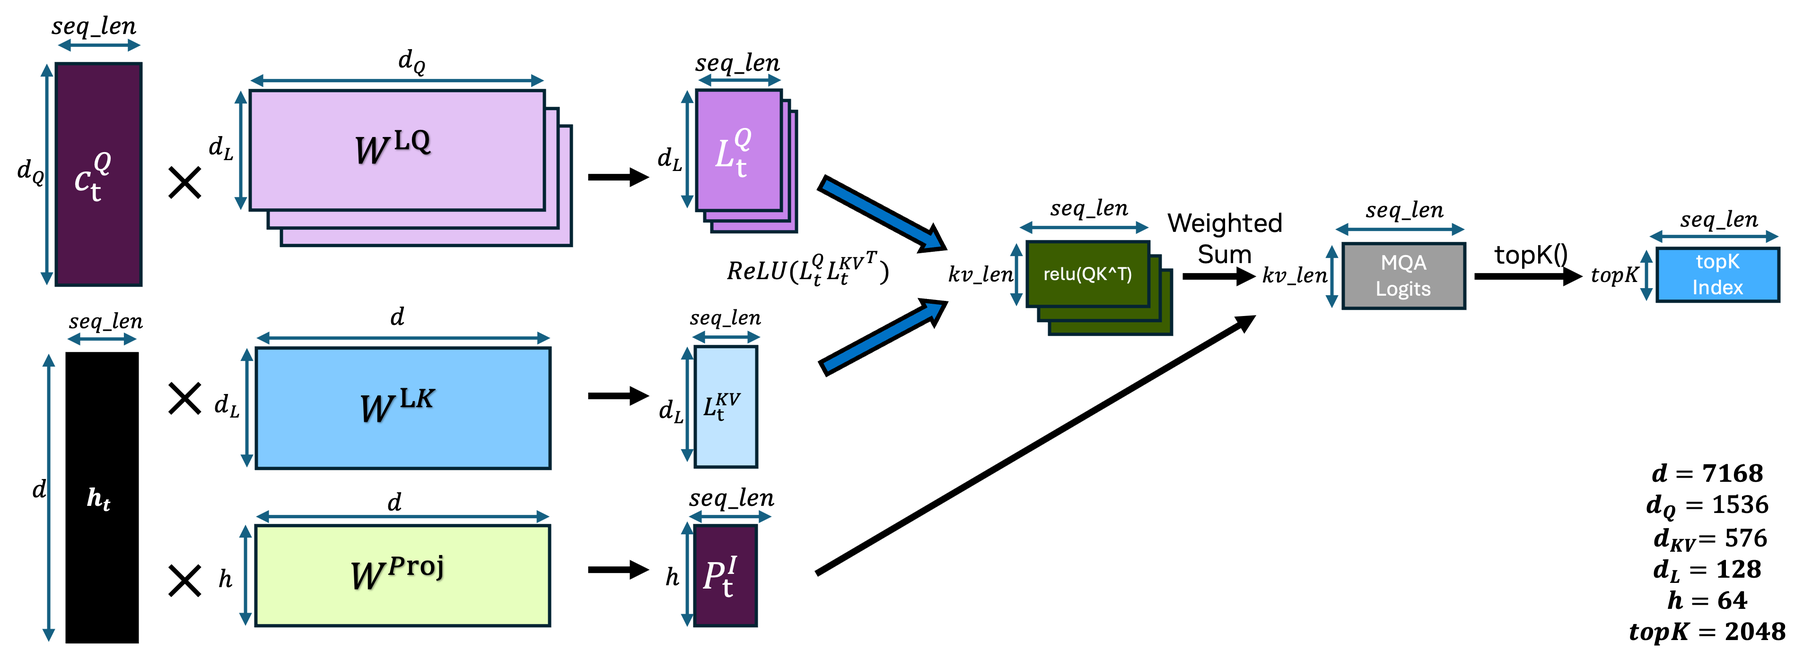
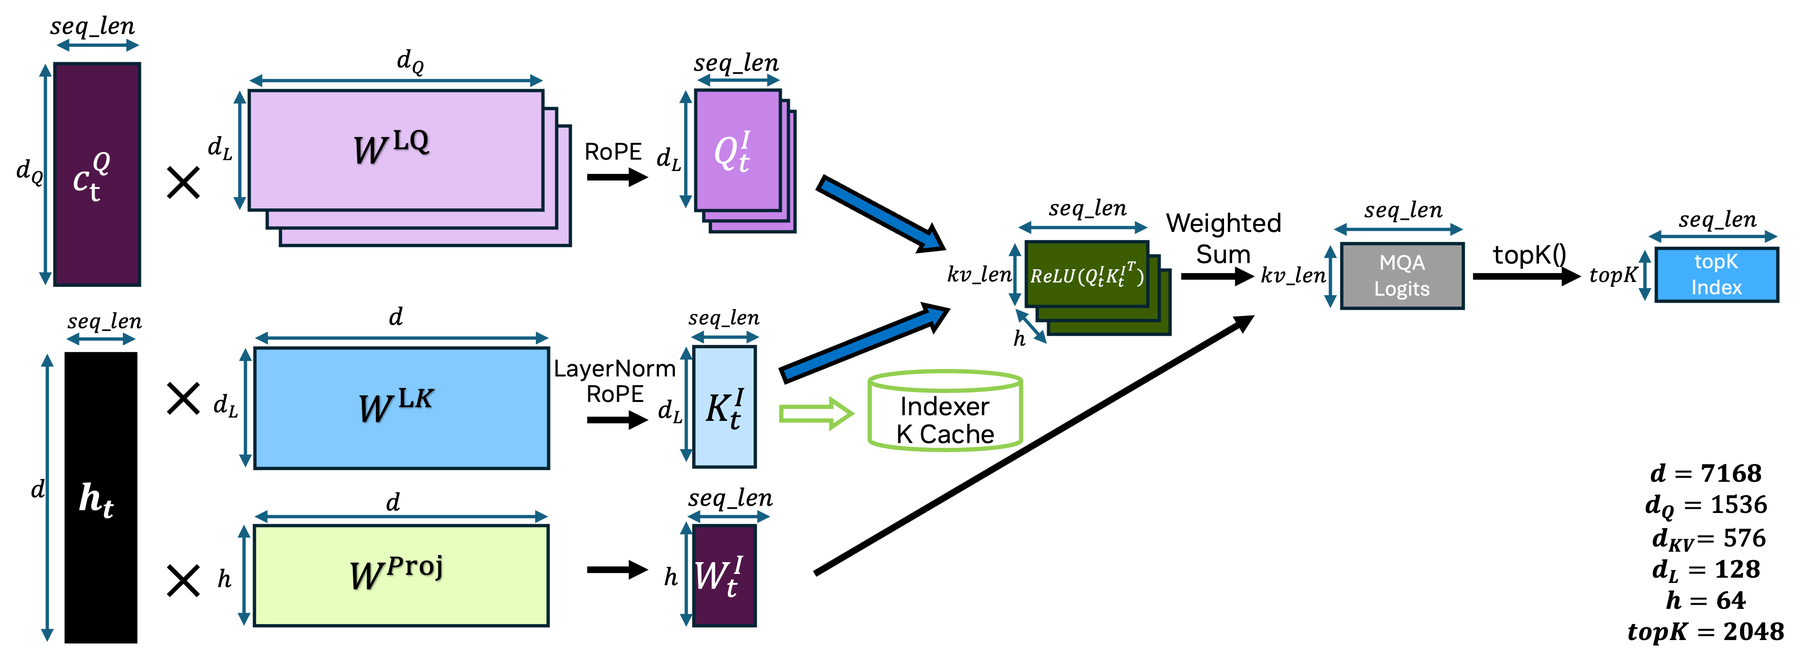
address comments.

diff --git a/docs/source/blogs/tech_blog/blog15_Optimizing_DeepSeek_V32_on_NVIDIA_Blackwell_GPUs.md b/docs/source/blogs/tech_blog/blog15_Optimizing_DeepSeek_V32_on_NVIDIA_Blackwell_GPUs.md
@@ -13,10 +13,11 @@ By NVIDIA TensorRT LLM team
         - [Disaggregated Serving](#disaggregated-serving)
         - [Chunked Prefill and KV Cache Reuse](#chunked-prefill-and-kv-cache-reuse)
         - [Wide Expert Parallelism (Wide-EP)](#wide-expert-parallelism-wide-ep)
+		- [Chat Template and Tool Parser](#chat-template-and-tool-parser)
     - [Key Optimizations](#key-optimizations)
         - [Kernel Optimizations](#kernel-optimizations)
             - [Sparse MLA Kernel](#sparse-mla-kernel)
-            - [Indexer Top-k Kernel](#indexer-top-k-kernel)
+            - [Indexer Top-K Kernel](#indexer-top-k-kernel)
             - [DeepGEMM MQA Kernel](#deepgemm-mqa-kernel)
             - [Kernel Fusion](#kernel-fusion)
         - [System Optimizations](#system-optimizations)
@@ -32,7 +33,7 @@ By NVIDIA TensorRT LLM team
     - [Acknowledgement](#acknowledgement)
 
 ## Introduction
-The open-sourced [DeepSeek-V3.2](https://api-docs.deepseek.com/news/news251201) series models proposed a new architecture with a fine-grained sparse attention mechanism, called DeepSeek Sparse Attention (DSA). It can help the DeepSeek-V3.2 model achieve better efficiency, especially in long sequence scenarios. Although DSA uses a lightweight indexer for prediction, realizing actual speedup from attention sparsity is still challenging. This blog introduces how TensorRT LLM supports key LLM inference features and optimizes DeepSeek-v3.2 performance on NVIDIA Blackwell GPUs.
+The open-sourced [DeepSeek-V3.2](https://api-docs.deepseek.com/news/news251201) series models proposed a new architecture with a fine-grained sparse attention mechanism, called DeepSeek Sparse Attention (DSA). It can help the DeepSeek-V3.2 model achieve better efficiency, especially in long sequence scenarios. Although DSA uses a lightweight indexer for prediction, realizing actual speedup from attention sparsity is still challenging. This blog introduces how TensorRT LLM supports key LLM inference features for DeepSeek-v3.2 and optimizes its performance on NVIDIA Blackwell GPUs.
 
 ## DeepSeek Sparse Attention (DSA)
 <div align="center">
@@ -40,9 +41,11 @@ The open-sourced [DeepSeek-V3.2](https://api-docs.deepseek.com/news/news251201) 
   <img src="https://github.com/lfr-0531/TensorRT-LLM/raw/user/fanrongl/ds32_tech_blog_preview/docs/source/blogs/media/tech_blog15_dsa_architecture.png" alt="tech_blog15_dsa_architecture" width="700" height="auto">
 </figure>
 </div>
-<p align="center"><sub><em>Figure 1. The architecture of DSA. The green part illustrates how DSA selects the top-k key-value entries according to the indexer.</em></sub></p>
+<p align="center"><sub><em>Figure 1. The architecture of DSA. The green part illustrates how DSA selects the Top-K key-value entries according to the indexer.</em></sub></p>
 
-DSA serves as the core component of the DeepSeek-v3.2 model, and it is the only architectural modification compared to its predecessors (DeepSeek-V3/R1/V3.1). It is a fine-grained sparse attention mechanism that only selects the important key-value entries for attention computation. Figure 1 illustrates the overall architecture: a lightning indexer first determines the importance of all key-value entries for each query token. Subsequently, the Top-k Selector retains only the top-K entries (typically K=2048) based on the index scores. Finally, attention is computed exclusively between the query token and these selected entries.
+DSA serves as a core component of the DeepSeek-v3.2 model, and it is the only architectural modification compared to its predecessors (DeepSeek-V3/R1/V3.1). It is a fine-grained sparse attention mechanism that only selects the important key-value entries for attention computation.
+
+Figure 1 illustrates the overall architecture: a lightning indexer first determines the importance of all key-value entries for each query token. Subsequently, the Top-K Selector retains only the top-$k$ entries (typically $k=2048$) based on the index scores. Finally, attention is computed exclusively between the query token and these selected entries.
 
 <div align="center">
 <figure>
@@ -51,38 +54,41 @@ DSA serves as the core component of the DeepSeek-v3.2 model, and it is the only 
 </div>
 <p align="center"><sub><em>Figure 2. The architecture of the DSA indexer and Top-K logics.</em></sub></p>
 
-Figure 2 illustrates the DSA indexer and the Top-k selection mechanism. First, two low-rank linear layers project $c_t^Q$ and the input $h_t$ into lower-dimensional tensors, $L_t^Q$ and $L_t^{KV}$. These tensors are then used to compute the index scores (labeled as MQA Logits in Figure 2):
-$$I_{t} = \sum_{j=1}^{h}P_j^I \cdot \text{ReLU}(L_{t, j}^Q (L_t^{KV})^T)$$
-Finally, a Top-k operation is applied to the index scores to identify the most relevant indices, which are subsequently used for the sparse MLA computation.
+Figure 2 illustrates the DSA indexer and the Top-K selection mechanism. Firstly, two low-rank linear layers project $c_t^Q$ and the input $h_t$ into lower-dimensional tensors. Following operations of LayerNorm to the K tensor and RoPE to both Q and K, we obtain the tensors $Q_t^I$ and $K_t^I$. Simultaneously, a separate weight projection layer processes $h_t$ to generate the weights $W_t^I$. These tensors are then used to compute the index scores (labeled as MQA Logits in Figure 2):
+
+$$I_{t} = \sum_{j=1}^{h}W_j^I \cdot \text{ReLU}(Q_{t, j}^I (K_t^I)^T)$$
+
+Finally, a Top-K operation is applied to the index scores to identify the most relevant indices, which are subsequently used for the sparse MLA computation. To reduce computational overhead, the K tensor $K_t^I$ is stored in the indexer K cache, allowing for reuse in subsequent iterations.
  
-Regarding implementation, DSA diverges from the DeepSeek-V3/R1/V3.1 models, which alternate between MHA (prefill) and MQA (decoding) as discussed in [Tech Blog 3](https://github.com/NVIDIA/TensorRT-LLM/blob/main/docs/source/blogs/tech_blog/blog3_Optimizing_DeepSeek_R1_Throughput_on_NVIDIA_Blackwell_GPUs.md). Instead, DSA adopts a unified approach, operating exclusively in MQA mode for both prefill and decoding phases to maximize kernel efficiency. We are continuing to explore further optimizations, including potential support for MHA mode in future iterations.
+Regarding implementation, DSA diverges from the MLA used in DeepSeek-V3/R1/V3.1 models, which alternates between MHA mode (prefill) and MQA mode (decoding) as discussed in [Tech Blog 3](https://github.com/NVIDIA/TensorRT-LLM/blob/main/docs/source/blogs/tech_blog/blog3_Optimizing_DeepSeek_R1_Throughput_on_NVIDIA_Blackwell_GPUs.md). Instead, our current DSA implementation operates only  in MQA mode for both prefill and decoding phases to maximize kernel efficiency. We are continuing to explore further optimizations, including potential support for MHA mode in future iterations.
 
 The DSA implementation is built upon the TensorRT LLM sparse attention framework, which is designed to provide flexible and extensible support for various sparse attention methods. For more information, please refer to the [sparse attention documentation](https://github.com/NVIDIA/TensorRT-LLM/blob/main/docs/source/features/sparse-attention.md), and a technical blog providing further details will be released soon.
 
 ## Precision Strategy
-Because the DSA is the only architectural modification of DeepSeek-V3.2-Exp from the DeepSeek-R1 model, the mixed precision recipe for other modules is the same as what is used for the DeepSeek-R1. This is the precision strategy used in the DSA module:
+Because the DSA is the only architectural modification of DeepSeek-V3.2 from the DeepSeek-R1 model, the mixed precision recipe for other modules is the same as what is used for the DeepSeek-R1. This is the NVFP4 precision strategy used in the DSA module:
 - Indexer
     - Low-rank linear layers: BF16
     - Weight projection layer: FP32, for model accuracy
     - MQA:
         - Indexer K cache: Blockwise FP8
         - Math: Blockwise FP8
-    - TopK: FP32
+    - Top-K: FP32
 - QKV projection layer: BF16
 - Output projection layer: NVFP4
 - Sparse MLA
     - KV cache: Per-tensor FP8
     - Math: Per-tensor FP8
 
-The MoE layers use NVFP4, which is the same as the DeepSeek-R1. Please refer to [Tech Blog 1](https://github.com/NVIDIA/TensorRT-LLM/blob/main/docs/source/blogs/tech_blog/blog1_Pushing_Latency_Boundaries_Optimizing_DeepSeek-R1_Performance_on_NVIDIA_B200_GPUs.md) and [Tech Blog 3](https://github.com/NVIDIA/TensorRT-LLM/blob/main/docs/source/blogs/tech_blog/blog3_Optimizing_DeepSeek_R1_Throughput_on_NVIDIA_Blackwell_GPUs.md) for the MoE precision strategy.
+The MoE layers use NVFP4, which is the same as the DeepSeek-R1. Please refer to [Tech Blog 1](https://github.com/NVIDIA/TensorRT-LLM/blob/main/docs/source/blogs/tech_blog/blog1_Pushing_Latency_Boundaries_Optimizing_DeepSeek-R1_Performance_on_NVIDIA_B200_GPUs.md) and [Tech Blog 3](https://github.com/NVIDIA/TensorRT-LLM/blob/main/docs/source/blogs/tech_blog/blog3_Optimizing_DeepSeek_R1_Throughput_on_NVIDIA_Blackwell_GPUs.md) for the MoE precision strategy. In addition to the NVFP4 version of DeepSeek-V3.2, TensorRT-LLM also supports the original FP8 model, as well as both BF16 and per-tensor FP8 KV caches.
 
 We evaluated the accuracy of this NVFP4 checkpoint on the same datasets:
 |                    | GSM8k | MMLU  | GPQA-Diamond |
 | :----------------- | :---- | :---- | :----------- |
-| TensorRT LLM FP8   | 95.91 | 87.84 | 84.34        |
-| TensorRT LLM NVFP4 | 95.26 | 87.54 | 84.85        |
+| [deepseek-ai/DeepSeek-V3.2](https://huggingface.co/deepseek-ai/DeepSeek-V3.2)   | 95.91 | 87.84 | 84.34        |
+| nvidia/DeepSeek-V3.2-NVFP4<sup>*</sup> | 95.26 | 87.54 | 84.85        |
 
-** Note there are some run-to-run variance for these evaluations. We think the NVFP4 checkpoint has comparable accuracy with FP8 on these datasets.
+<sub><em>\* Currently, there is no NVFP4 DeepSeek-V3.2 model available on Hugging Face. Please refer to the [How to reproduce](#how-to-reproduce) section to learn how to quantize the model to NVFP4.  
+** Note there are some run-to-run variance for these evaluations. Our experiments indicate that the NVFP4 recipe delivers accuracy on par with FP8 on these datasets.</em></sub>
 
 ## Parallel Strategy
 To achieve optimal throughput, DeepSeek-V3.2 adopts the same parallel strategy as DeepSeek-R1. Please refer to [Tech Blog 3](https://github.com/NVIDIA/TensorRT-LLM/blob/main/docs/source/blogs/tech_blog/blog3_Optimizing_DeepSeek_R1_Throughput_on_NVIDIA_Blackwell_GPUs.md) for a detailed explanation of the performance benefits:
@@ -99,24 +105,29 @@ The difference lies in the DSA indexer. When utilizing Tensor Parallelism (TP) f
 
 ## Key Features
 In TensorRT LLM, there are many advanced features that are crucial for maximizing LLM inference performance, such as CUDA Graph, Overlap Scheduler, Speculative Decoding, etc. Given the architectural innovations in DeepSeek-V3.2, ensuring its compatibility with these features is important.
+
 As illustrated in [Tech Blog 3](https://github.com/NVIDIA/TensorRT-LLM/blob/main/docs/source/blogs/tech_blog/blog3_Optimizing_DeepSeek_R1_Throughput_on_NVIDIA_Blackwell_GPUs.md), both CUDA Graph and the Overlap Scheduler offer significant throughput improvements. For CUDA Graph support, which is typically enabled during decoding-only iterations where all requests are in the decoding phase, we must ensure that kernels in the DSA module support graph capture and that input/output tensor shapes remain consistent for a given batch size. Regarding the Overlap Scheduler, it is critical to eliminate any CPU-GPU synchronization within the DSA forward, as this would disrupt the execution pipeline. Other key features are discussed in the following subsections.
 
 ### MTP
 Multi-Token Prediction (MTP) is a speculative decoding method used in DeepSeek series models. It verifies and accepts multiple draft tokens in a single iteration, significantly improving inference performance in both low-latency and high-throughput scenarios. The DeepSeek-V3.2 also supports MTP. For latency-critical scenarios, as detailed in [Tech Blog 1](https://github.com/NVIDIA/TensorRT-LLM/blob/main/docs/source/blogs/tech_blog/blog1_Pushing_Latency_Boundaries_Optimizing_DeepSeek-R1_Performance_on_NVIDIA_B200_GPUs.md), MTP-3 is recommended to maximize GPU utilization and achieve optimal performance. For other scenarios, MTP-1 typically offers performance gains as well.
 
-However, the decoding indexer MQA kernel supports sequence lengths of only 1 or 2, limiting native support to MTP-off or MTP-1. To enable MTP > 1, we offer two solutions. The long-term solution involves updating the MQA kernel to support larger sequence lengths, which will be introduced in the MQA kernel optimization section. The immediate workaround (in [PR-9045](https://github.com/NVIDIA/TensorRT-LLM/pull/9045)) uses the existing kernel by flattening the sequence length dimension into the batch dimension, treating the input as a tensor with a sequence length of 1. While this approach ignores the causal mask during the indexer MQA forward, causing discrepancies in the diagonal regions compared to ground truth, the subsequent Top-K kernel handles causal masking correctly. Therefore, the final top-k indices remain unaffected, allowing this workaround to support MTP-N for any N.
+However, the decoding indexer MQA kernel supports sequence lengths of only 1 or 2, limiting native support to MTP-off or MTP-1. To enable MTP > 1, we offer two solutions. The long-term solution involves updating the MQA kernel to support larger sequence lengths, which will be introduced in the MQA kernel optimization section. The immediate workaround (in [PR-9045](https://github.com/NVIDIA/TensorRT-LLM/pull/9045)) uses the existing kernel by flattening the sequence length dimension into the batch dimension, treating the input as a tensor with a sequence length of 1. While this approach ignores the causal mask during the indexer MQA forward, causing discrepancies in the diagonal regions compared to ground truth, the subsequent Top-K kernel handles causal masking correctly. Therefore, the final Top-K indices remain unaffected, allowing this workaround to support MTP-N for any N.
 
 ### Disaggregated Serving
 Disaggregated serving decouples the prefill and decoding phases, allowing them to run on separate GPU pools with optimized parallel strategies. This feature is crucial for deploying LLMs on high-performance systems like GB200 NVIDIA GPU HWs. However, it requires transferring KV cache blocks from the prefill to the decoding GPUs. DeepSeek-V3.2 introduces an additional 'indexer K cache,' which presents unique challenges for cache management and transmission in a disaggregated setup.
 
-To address this, [PR-8699](https://github.com/NVIDIA/TensorRT-LLM/pull/8699) integrated indexer K cache support into the existing kvCacheManager, enabling it to inherit existing cache features. Subsequently, [PR-8735](https://github.com/NVIDIA/TensorRT-LLM/pull/8735) extended disaggregated serving capabilities to DeepSeek-V3.2, allowing TensorRT-LLM to handle the transmission of the indexer K cache. Currently, the implementation specifically targets the indexer K cache, but we plan to generalize this support in future updates.
+To address this, [PR-8699](https://github.com/NVIDIA/TensorRT-LLM/pull/8699) integrated indexer K cache support into the existing kvCacheManager, enabling it to inherit existing cache features. Subsequently, [PR-8735](https://github.com/NVIDIA/TensorRT-LLM/pull/8735) extended disaggregated serving capabilities to DeepSeek-V3.2, allowing TensorRT LLM to handle the transmission of the indexer K cache. Currently, the implementation specifically targets the indexer K cache, but we plan to generalize this support in future updates.
 
 ### Chunked Prefill and KV Cache Reuse
 Two additional critical features are chunked prefill and KV cache reuse. Chunked prefill removes input length constraints for long prompts and enables prefill chunks to be batched alongside more decoding requests, boosting throughput. KV cache reuse allows requests sharing common prefixes (e.g., system prompts or multi-turn conversations) to share cached blocks, drastically reducing time-to-first-token (TTFT).
+
 On the implementation side, kvCacheManager already supports the newly introduced indexer K cache, extending compatibility to both chunked prefill and KV cache reuse. Then [PR-9376](https://github.com/NVIDIA/TensorRT-LLM/pull/9376) enabled DSA to perform prefill computation with past tokens saved in the cache, thereby unlocking chunked prefill support. Building on this, [PR-9383](https://github.com/NVIDIA/TensorRT-LLM/pull/9383) implemented KV cache reuse for DeepSeek-V3.2 by reusing the chunked prefill changes.
 
 ### Wide Expert Parallelism (Wide-EP) 
 The Wide-EP is an important feature for boosting inference throughput in large-scale Mixture-of-Experts (MoE) models. For the DeepSeek-V3.2 model, after supporting the disaggregated serving, [PR-9245](https://github.com/NVIDIA/TensorRT-LLM/pull/9245) simply registered the model with the Expert Parallelism Load Balancer (EPLB). This integration allows Wide-EP and EPLB to be enabled, significantly enhancing performance.
+
+### Chat Template and Tool Parser
+DeepSeek-V3.2 introduces a new chat template compared to prior versions. This update incorporates support for tool calling and the 'thinking with tools' capability. These enhancements, along with the necessary tool parser, were implemented in [PR-9814](https://github.com/NVIDIA/TensorRT-LLM/pull/9814) and [PR-10126](https://github.com/NVIDIA/TensorRT-LLM/pull/10126). To enable this new chat template when deploying with `trtllm-serve` or `trtllm-eval`, please specify the argument `--custom_tokenizer deepseek_v32`.
 
 ## Key Optimizations
 DeepSeek-V3.2 can inherit the MoE optimizations from DeepSeek-R1. Consequently, this section focuses exclusively on the DSA part, covering both kernel and system-level optimizations.
@@ -126,7 +137,7 @@ DeepSeek-V3.2 can inherit the MoE optimizations from DeepSeek-R1. Consequently, 
 #### Sparse MLA Kernel
 Sparse MLA serves as the core kernel of DSA, enabling attention computation with fine-grained token sparsity. To efficiently support this sparsity pattern, we leverage the new TMALDG.Gather4 instruction on Blackwell GPUs. This instruction loads four rows from a source 2D tensor and coalesces them into a single destination tensor, making it ideal for fine-grained sparse attention operations.
  
-Similar to the dense MLA kernel, FP8 KV cache optimization is crucial for reducing KV cache size and improving E2E throughput. For DSA, we employ per-tensor FP8 quantization: both Query (Q) and Key-Value (KV) tensors are quantized, and FP8 arithmetic is utilized for the sparse MLA computation. To validate the model accuracy under this configuration, the table below presents the GPQA-Diamond accuracy comparison between FP16 and per-tensor FP8 KV cache for the DeepSeek-V3.2-Exp model.
+Similar to the dense MLA kernel, FP8 KV cache optimization is crucial for reducing KV cache size and improving E2E throughput. For DSA, we employ per-tensor FP8 quantization: both Query (Q) and Key-Value (KV) tensors are quantized, and FP8 arithmetic is utilized for the sparse MLA computation. To validate the model accuracy under this configuration, the table below presents the GPQA-Diamond accuracy comparison between BF16 and per-tensor FP8 KV cache for the DeepSeek-V3.2-Exp model. PR-8692 introduced this FP8 sparse MLA support, yielding up to a 47.03% improvement in throughput (TPS/GPU).
 
 | KV Cache Type                | FP8 checkpoint | NVFP4 checkpoint |
 | :--------------------------- | :------------- | :--------------- |
@@ -135,21 +146,21 @@ Similar to the dense MLA kernel, FP8 KV cache optimization is crucial for reduci
 
 Another important optimization is SwapsMmaAb, designed specifically for Tensor Parallelism (TP) scenarios. When TP is enabled for sparse MLA, input tensors are partitioned along the Q head dimension. Consequently, each rank processes a reduced number of Q heads ($128 / \text{TP}$), leading to Tensor Core underutilization. SwapsMmaAb addresses this bottleneck by swapping the A and B operands during matrix multiplication to improve hardware utilization.
 
-#### Indexer Top-k Kernel
-DSA contains a module called Top-k Selector. It is a fine-grained token selection mechanism that retrieves only the key-value entries corresponding to the top-k index scores. The index scores are from Lightning Indexer. This part will select the top 2048 tokens for each query. Specifically, there are prefill and decode stages, which have two different data layout patterns.
+#### Indexer Top-K Kernel
+DSA contains a module called Top-K Selector. It is a fine-grained token selection mechanism that retrieves only the key-value entries corresponding to the Top-K index scores. The index scores are from Lightning Indexer. This part will select the top 2048 tokens for each query. 
 
-##### Deterministic TopK vs Non-deterministic TopK
+##### Deterministic Top-K vs Non-deterministic Top-K
 The Top‑K problem aims to find the largest (or smallest) K elements from a set of N candidates. Because some of the N candidates may have identical values, there can be more than K elements that are tied with the K‑th element. In such cases, deciding which of the tied elements are included in the final Top‑K set affects whether the output is deterministic. If the tied elements are selected randomly, the results will be non‑deterministic. Conversely, if we always prioritize elements with smaller indices, the results will be deterministic.
 
 Obtaining deterministic results generally requires a more complex algorithm and incurs higher latency than a non‑deterministic version. In DeepSeek V3.2, we first need to determine whether such determinism is actually necessary. We compare the accuracy between the deterministic (DE) and non‑deterministic versions of Top‑K with the GPQA-Diamond dataset. The scores are pretty close:
-| GPQA-Diamond | DE TopK | Non-DE TopK |
+| GPQA-Diamond | DE Top-K | Non-DE Top-K |
 | :----------- | :------ | :---------- |
 | FP8 model    | 79.8    | 79.9        |
 | NVFP4 model  | 80.3    | 79.4        |
 
 So we decided to use the non‑DE parallel Top‑K algorithm for DeepSeek V3.2.
 
-##### Radix-select-based TopK Parallel Algorithm
+##### Radix-select-based Top-K Parallel Algorithm
 <div align="center">
 <figure>
   <img src="https://github.com/lfr-0531/TensorRT-LLM/raw/user/fanrongl/ds32_tech_blog_preview/docs/source/blogs/media/tech_blog15_radix_select_topk.png" alt="tech_blog15_radix_select_topk" width="1280" height="auto">
@@ -157,17 +168,18 @@ So we decided to use the non‑DE parallel Top‑K algorithm for DeepSeek V3.2.
 </div>
 <p align="center"><sub><em>Figure 3. Radix-select-based Top-K.</em></sub></p>
 
-In general, there are two kinds of parallel Top‑K algorithms: partition‑based methods and priority‑queue‑based methods. The runtime of existing priority‑queue approaches grows rapidly as K increases, and the K value is as large as 2048 for the indexer topK in deepseek v3.2, so we choose partition‑based methods instead. Specifically, we adopt radix‑select as our baseline.
+In general, there are two kinds of parallel Top‑K algorithms: partition‑based methods and priority‑queue‑based methods. The runtime of existing priority‑queue approaches grows rapidly as K increases, and the K value is as large as 2048 for the indexer Top-K in deepseek v3.2, so we choose partition‑based methods instead. Specifically, we adopt radix‑select as our baseline.
 For 32‑bit values with 8‑bit digits, a naïve radix Top‑K algorithm runs 4 iterations, with 4 kernel launches per iteration. In each iteration, it (1) Histogram: counts how many elements fall into each digit bucket based on the current bits; (2) Prefix Sum: builds a prefix sum over these bucket counts; (3) Find target digits: identifies which bucket contains the K‑th element; and (4) Filtering: keeps all elements in smaller buckets as definite Top‑K, discards elements in larger buckets, and passes elements in the target bucket to the next iteration as new candidates.
 
-##### Optimizations
+##### Optimizations for Indexer Top-K
 **Skip iterations with parallel sorting.** In addition to the basic radix‑select method, we introduce further optimizations to speed up the Top‑K computation. In practice, with either 8‑bit radix select (four iterations) or 11‑bit radix select (three iterations), the number of candidates typically drops sharply after the first one or two iterations on real datasets.
-Our key optimization is to bypass the remaining radix‑select iterations and switch to a parallel sort once the candidate set becomes sufficiently small (smaller than 2048 in the current implementation). When the number of candidates is relatively small, we use a low-overhead naive O(N²) comparison-based ranking algorithm. For each element, we compare it against all others to determine its final position, and if this position is smaller than K, we keep it as part of the Top‑K output.  Otherwise, we use the parallel sort from CUB to get the results.
+Our key optimization is to bypass the remaining radix‑select iterations and switch to a parallel sort once the candidate set becomes sufficiently small (smaller than 2048 in the current implementation). When the number of candidates is relatively small, we use a low-overhead naive O(N²) comparison-based ranking algorithm. For each element, we compare it against all others to determine its final position, and if this position is smaller than K, we keep it as part of the Top‑K output.  Otherwise, we use the parallel sort from CUB to get the results. The basic implementation and this optimization were added in [PR-8882](https://github.com/NVIDIA/TensorRT-LLM/pull/8882).
 
-**Specialization for different cases.** When running with real datasets, we found that the number of candidates reaching the final sorting stage was larger than expected, which resulted in higher runtime overhead. To address this issue, we introduced an additional preliminary bin-distribution step to reduce the number of candidates more efficiently before the final sort. This preprocessing step halves the candidate set and uses the leading 11 bits of each value to compute its bin index. 
+**Specialization for different cases.** When running with real datasets, we found that the number of candidates reaching the final sorting stage was larger than expected, which resulted in higher runtime overhead. To address this issue, [PR-9255](https://github.com/NVIDIA/TensorRT-LLM/pull/9255) introduced an additional preliminary bin-distribution step to reduce the number of candidates more efficiently before the final sort. This preprocessing step halves the candidate set and uses the leading 11 bits of each value to compute its bin index.  
 
-##### E2E Performance Results
+##### Performance Results
 
+<sub><em>Table1: Compare the performance of torch.topk and our customized Top-K op on B200.</em></sub>
 | File                          | torch.topk(us) | TopKPerRow(us) | Speedup |
 |-------------------------------|----------------|----------------|---------|
 | topk_inputs_layer0_rank0.npy  | 106.877        | 14.069         | 7.596   |
@@ -175,23 +187,23 @@ Our key optimization is to bypass the remaining radix‑select iterations and sw
 | topk_inputs_layer0_rank2.npy  | 104.616        | 14.079         | 7.431   |
 | topk_inputs_layer0_rank3.npy  | 105.049        | 14.016         | 7.495   |
 | topk_inputs_layer0_rank4.npy  | 105.526        | 14.073         | 7.498   |
-| topk_inputs_layer0_rank5.npy  | 105.034        | 13.986         | 7.51    |
+| topk_inputs_layer0_rank5.npy  | 105.034        | 13.986         | 7.510   |
 | topk_inputs_layer0_rank6.npy  | 104.516        | 14.079         | 7.423   |
 | topk_inputs_layer0_rank7.npy  | 105.099        | 14.189         | 7.407   |
 | topk_inputs_layer10_rank0.npy | 109.614        | 15.281         | 7.173   |
 | topk_inputs_layer10_rank1.npy | 104.838        | 15.284         | 6.859   |
-| Average                       | 106.067        | 14.327         | 7.41    |
+| Average                       | 106.067        | 14.327         | 7.410   |
 
 We use the data that is exported from real datasets across different layers. The input tensor size for each case is [64, 9295]. We select the top 2048 from the valid candidates for each query. As shown in Table 1, compared to the native torch.topk implementation, our implementation achieves an average speedup of 7.41x. This significantly optimizes the duration of the indexer module.
 
-Overall, by replacing the DE-version topK from PyTorch with our customized non-DE topK kernel, which brings 25%~40% and 14%~24% e2e speedup for the low latency and throughput scenarios.
+Overall, by replacing the DE-version Top-K from PyTorch with our customized non-DE Top-K kernel, which brings 25%~40% and 14%~24% e2e speedup for the low latency and throughput scenarios.
 
 #### DeepGEMM MQA Kernel
-The DeepGEMM MQA kernel computes logits for the Top-K selection process. To enhance efficiency on Blackwell GPUs, we implemented several optimizations targeting both performance and ease of use:
+The DeepGEMM MQA kernel computes logits for the Top-K selection process. To enhance efficiency on Blackwell GPUs, several optimizations were implemented targeting both performance and ease of use:
 
-- Larger MMA Tile Size: We increased the MMA tile size for both the prefill and decoding MQA kernels, yielding up to a 10% performance improvement.
-- Flexible Paged KV Cache Configurations: The decoding MQA kernel now supports a wider range of configurations. While the initial version was restricted to a block size of 64 tokens, the optimized kernel supports any block size $B$ that satisfies the condition $128 \pmod B = 0$.
-- MTP-3 Support: Previously, the kernel was limited to MTP-0 or MTP-1 (predicting at most one draft token). Since MTP-3 typically delivers superior performance in low-latency scenarios, optimizations were introduced (see commit 2be3f36) to enable native MTP-3 support.
+- Larger MMA Tile Size: We increased the MMA tile size for both the prefill and decoding MQA kernels, yielding up to a 10% performance improvement. This optimization was implemented in commit [2f9d878](https://github.com/deepseek-ai/DeepGEMM/commit/2f9d87877ed691a62796c25f2e9496a5e0b7123a) and [fc97232](https://github.com/deepseek-ai/DeepGEMM/commit/fc97232c6f23bf5b4be5bdef52af8ce5dc499460).
+- Flexible Paged KV Cache Configurations: The decoding MQA kernel now supports a wider range of configurations. While the initial version was restricted to a block size of 64 tokens, commit [c5d4d74](https://github.com/deepseek-ai/DeepGEMM/commit/c5d4d7448665ae90a81d9d31d60d445010da50f0) enabled support for any block size $B$ satisfying the condition $64 \% B = 0$.
+- MTP-3 Support: Previously, the kernel was limited to MTP-0 or MTP-1 (predicting at most one draft token). Since MTP-3 typically delivers superior performance in low-latency scenarios, optimizations were introduced (see commit [2be3f36](https://github.com/deepseek-ai/DeepGEMM/commit/2be3f367854702e3887ff5b28b274cb16b441af9)) to enable native MTP-3 support.
 
 #### Kernel Fusion
 Kernel fusion is a standard optimization technique for improving performance. For DeepSeek-V3.2, we implemented specific fusion strategies:
@@ -199,7 +211,7 @@ Kernel fusion is a standard optimization technique for improving performance. Fo
 - Custom Kernels for Indexer K Cache Population: The indexer MQA utilizes blockwise FP8 for both Q and K inputs, requiring the indexer K cache to store data in a specific blockwise FP8 format. During the forward pass, the indexer K tensor must be quantized, and both the values and scaling factors are saved to the cache. To optimize this, [PR-8701](https://github.com/NVIDIA/TensorRT-LLM/pull/8701) fused the blockwise FP8 quantization logic into a single kernel. Since the original PyTorch operations were a bottleneck, this resulted in a significant 32.64%–64.20% improvement in inference throughput. Subsequently, [PR-8960](https://github.com/NVIDIA/TensorRT-LLM/pull/8960) fused indexer K tensor storage operations into a custom kernel, delivering an additional 3.5%–13.4% end-to-end (E2E) performance gain.
 - Fusing Small Kernels via torch.compile(): Beyond the major kernels, DSA involves numerous small kernels with low latencies. To reduce kernel launch overhead, we leverage torch.compile() to fuse these smaller operations:
     - [PR-8988](https://github.com/NVIDIA/TensorRT-LLM/pull/8988) consolidated indexer weight scaling for blockwise FP8 quantization.
-    - [PR-9053](https://github.com/NVIDIA/TensorRT-LLM/pull/9053) fused LayerNorm operations, yielding around 1.42% speedup for low-latency scenarios and 1.90% for throughput-oriented scenarios.
+    - [PR-9052](https://github.com/NVIDIA/TensorRT-LLM/pull/9052) fused LayerNorm operations, yielding around 1.42% speedup for low-latency scenarios and 1.90% for throughput-oriented scenarios.
 
 ### System Optimizations
 
@@ -207,13 +219,13 @@ Kernel fusion is a standard optimization technique for improving performance. Fo
 Multi-stream execution is leveraged in the following optimizations:
 
 - [PR-8988](https://github.com/NVIDIA/TensorRT-LLM/pull/8988) employs multi-stream to overlap indexer weight scaling with the indexer K cache update. Combined with torch.compile() optimization for the indexer weight scaling, this yields approximately 2.53% speedup in low-latency scenarios.
-- When fusing the blockwise FP8 quantization in [PR-8701](https://github.com/NVIDIA/TensorRT-LLM/pull/8701), multi-stream is used to concurrently execute the quantization operations for both indexer Q and K tensors.
-- [PR-9243](https://github.com/NVIDIA/TensorRT-LLM/pull/9243) changed the indexer weight_proj GEMM to FP32 to improve accuracy. However, this introduces a performance regression compared to the low-precision implementation. To mitigate this, multi-stream is utilized to overlap the FP32 weight_proj GEMM with the indexer low-rank Q proj GEMM, LayerNorm, and Q/K RoPE operations.
+- When improving the blockwise FP8 quantization in [PR-8701](https://github.com/NVIDIA/TensorRT-LLM/pull/8701), multi-stream is also used to enable concurrent quantization of the indexer Q and K tensors.
+- [PR-9243](https://github.com/NVIDIA/TensorRT-LLM/pull/9243) changed the indexer weight projection GEMM to FP32 to improve accuracy. However, this introduced a performance regression compared to the low-precision implementation. To mitigate this, multi-stream is utilized to overlap the FP32 weight projection GEMM with the indexer low-rank Q projection GEMM, LayerNorm, and Q/K RoPE operations.
 
 #### A Fast Path for Short Sequences
 DeepSeek-V3.2 employs K=2048 for the Top-K selector. For sequences with length $N \le 2048$, all past KV tokens are inherently selected, rendering the MQA and Top-K operations redundant. [PR-9524](https://github.com/NVIDIA/TensorRT-LLM/pull/9524) implements a "fast path" to bypass these unnecessary operations for short sequences.
 
-For the implementation, we can simply generate dense indices during DSA preparation, and directly change to use these dense indices in the indexer forward for prefill requests. However, decoding requests present a challenge due to CUDA Graph integration since the CUDA graph is usually enabled for decoding-only iterations. To ensure compatibility, we capture separate CUDA graphs for short and long sequences. At the start of each iteration, the system checks the sequence lengths: if any request in the batch exceeds the threshold, the long-sequence graph is triggered; otherwise, the short-sequence graph is utilized. This optimization yields approximately xxxx speedup for 1K/1K scenarios.
+For the implementation, we can simply generate dense indices during DSA preparation, and directly change to use these dense indices in the indexer forward for prefill requests. However, decoding requests present a challenge due to CUDA Graph integration since the CUDA graph is usually enabled for decoding-only iterations. To ensure compatibility, we capture separate CUDA graphs for short and long sequences. At the start of each iteration, the system checks the sequence lengths: if any request in the batch exceeds the threshold, the long-sequence graph is triggered; otherwise, the short-sequence graph is utilized. This optimization yields approximately 1.03x speedup for 1K/1K scenarios.
 
 ## How to Reproduce
 This section provides the reproducing steps for NVIDIA Blackwell B200 GPUs, for both model accuracy evaluation and performance benchmark.
@@ -339,7 +351,7 @@ model_path=<your model path>
 cat <<EOF > ./extra-llm-api-config.yml
 cuda_graph_config:
 	enable_padding: true
-batch_sizes: [1,2,3,4,5,6,7,8,9,10,11,12,13,14,15,16,32,64,128]
+    batch_sizes: [1,2,3,4,5,6,7,8,9,10,11,12,13,14,15,16,32,64,128]
 enable_attention_dp: true
 kv_cache_config:
 	free_gpu_memory_fraction: 0.8
@@ -399,7 +411,7 @@ As illustrated in Figure 4, Wide-EP yields up to a 2.28x improvement in per-GPU 
 
 - Optimize performance for long-sequence scenarios (e.g., ISL=32K, OSL=4K).
 - Optimize performance for large Expert Parallelism (EP) configurations.
-- Evaluate MHA versus MQA modes for prefill sparse MLA to determine the optimal configuration.
+- Evaluate dense MHA versus MQA modes for context sparse MLA to determine the optimal configuration for processing short sequences.
 - Explore more aggressive quantization strategies for DSA.
 - Optimize the implementation of the indexer Top-K kernel.
 - Investigate KV cache offloading mechanisms for DSA.
@@ -407,4 +419,4 @@ As illustrated in Figure 4, Wide-EP yields up to a 2.28x improvement in per-GPU 
 ## Acknowledgement
 Achieving these remarkable performance gains since the release of DeepSeek-V3.2-Exp was truly a collaborative triumph. We extend our deepest gratitude to everyone who contributed to the functional implementation and performance optimization of the DeepSeek-V3.2 model.
 
-This work serves as a testament to TensorRT-LLM's flexibility and effectiveness in supporting architectural innovations and novel sparse attention mechanisms. We hope this work paves the way for further advancements in sparse attention support.
+This work serves as a testament to TensorRT LLM's flexibility and effectiveness in supporting architectural innovations and novel sparse attention mechanisms. We hope this work paves the way for further advancements in sparse attention support.
